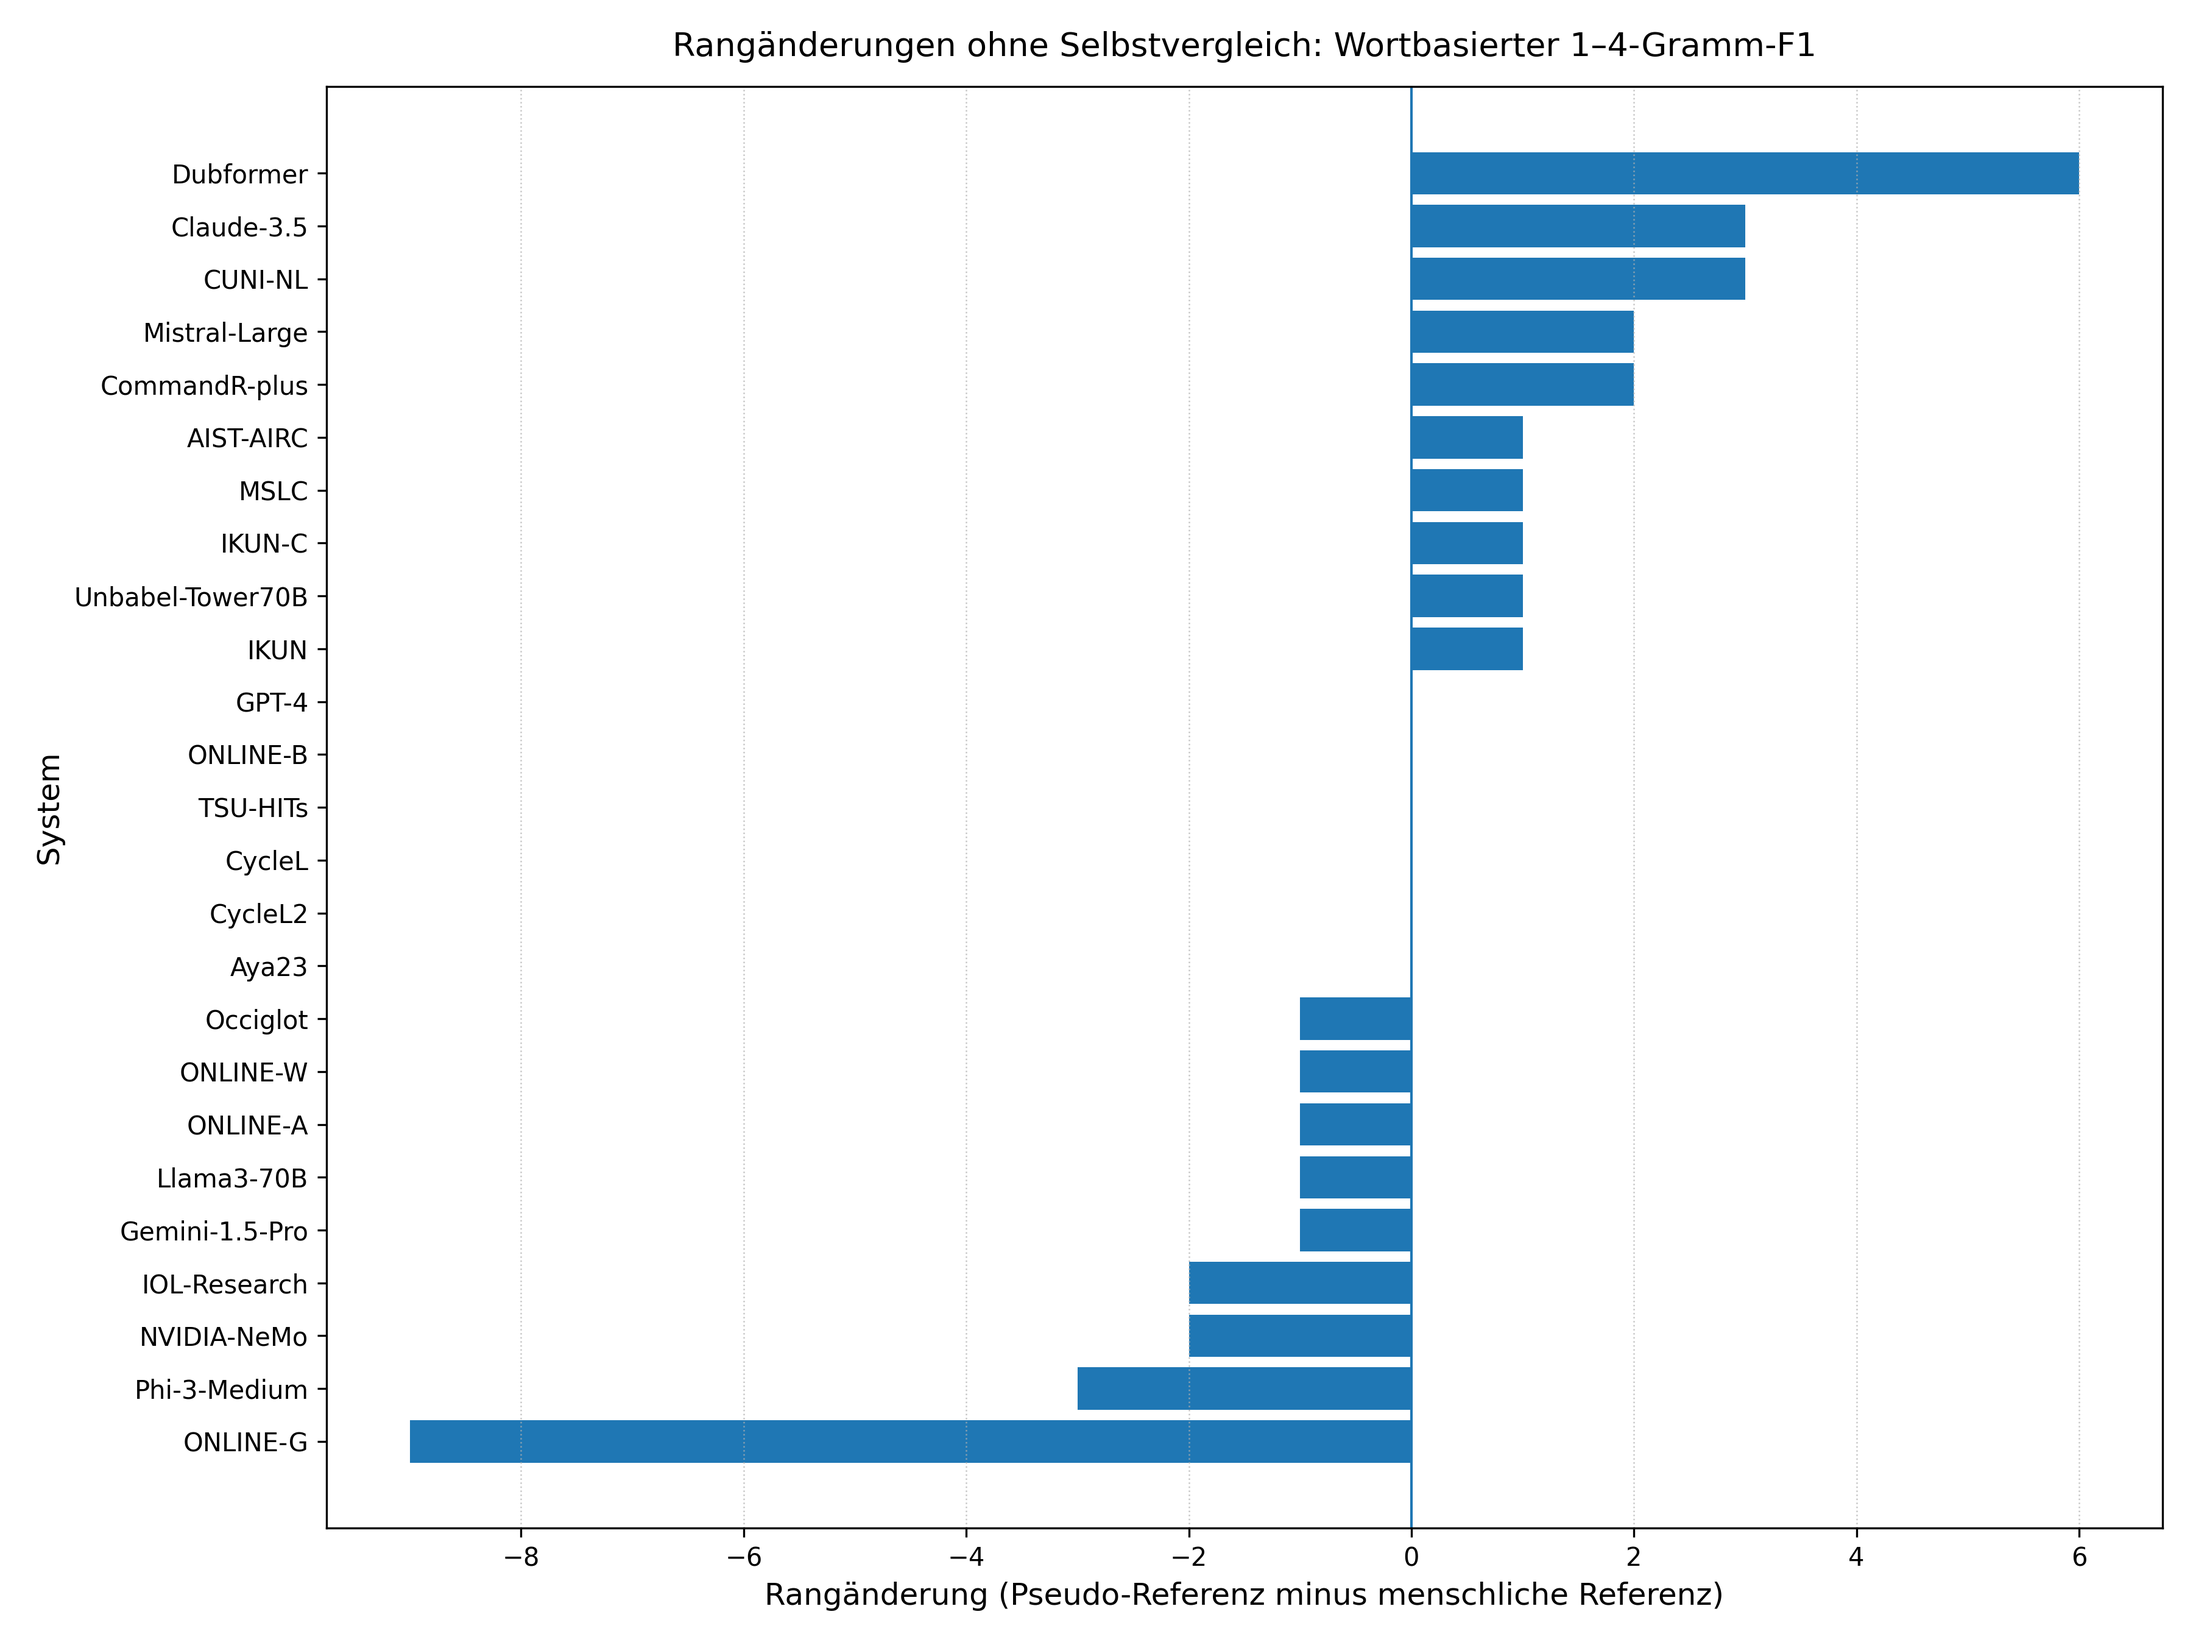
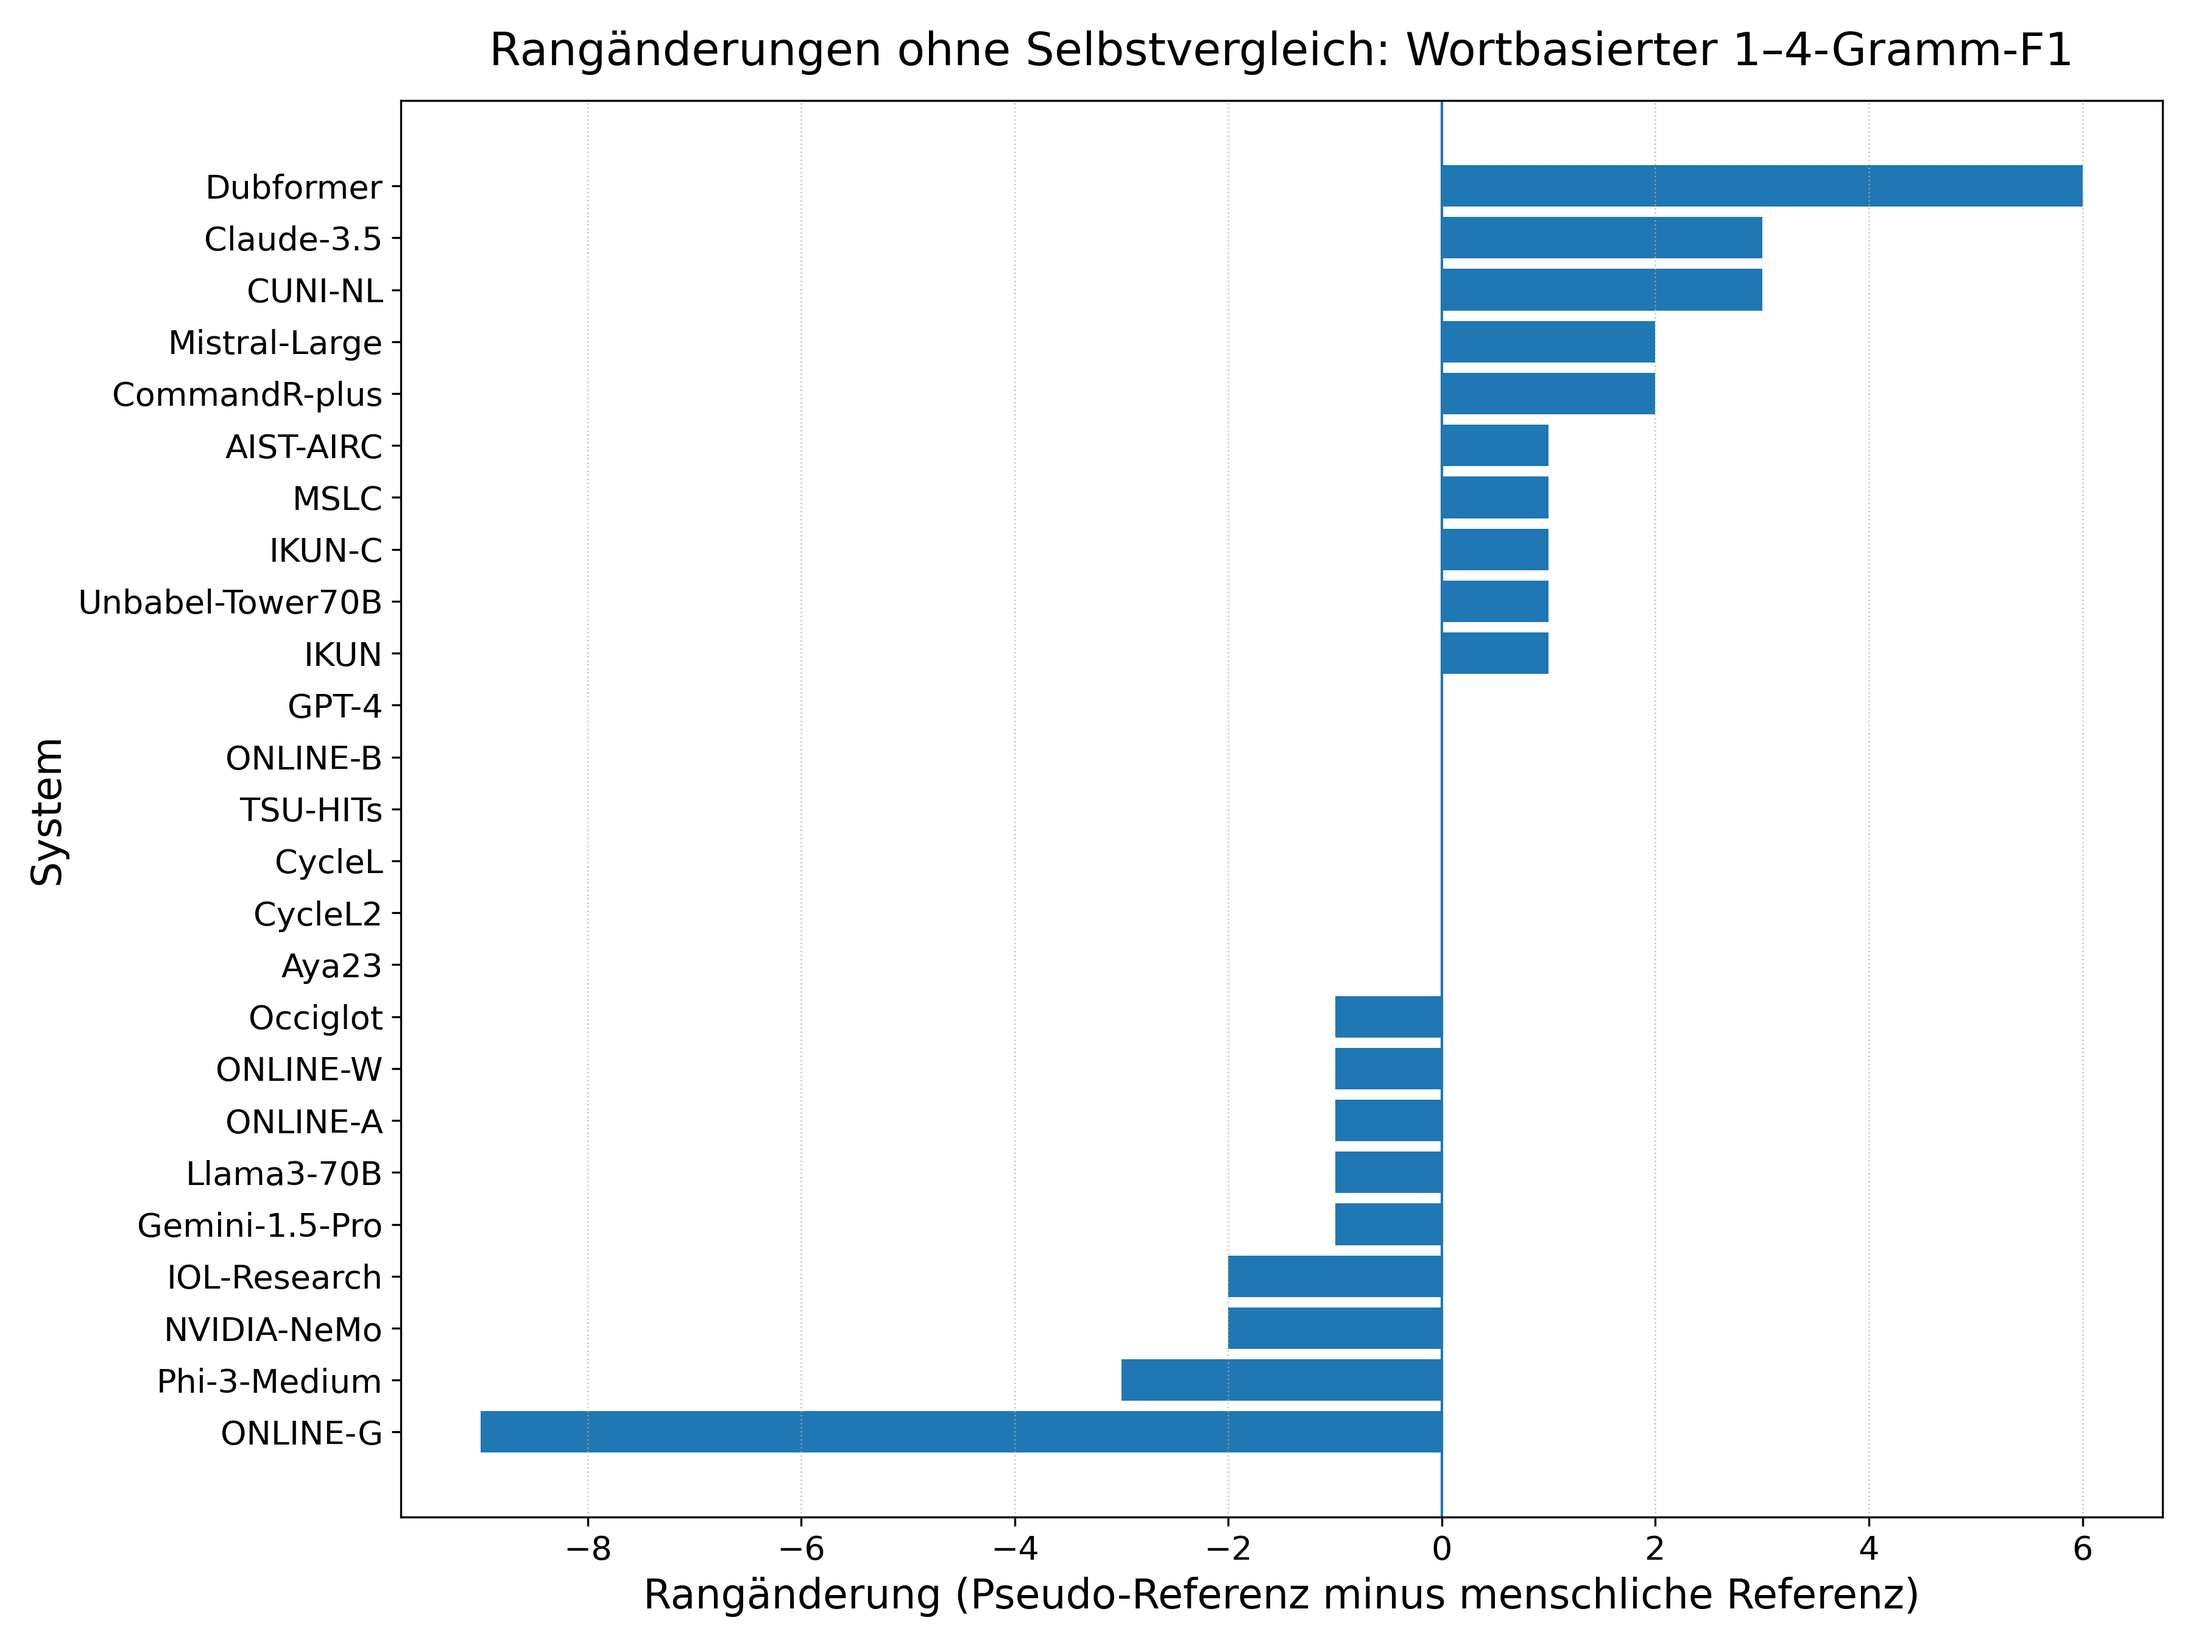
Increase plot label readability

diff --git a/src/build_report_assets.py b/src/build_report_assets.py
@@ -106,7 +106,10 @@ def write_pseudo_reference_comparison(
         ]
     ].sort_values(["metric", "rank_human_reference", "candidate"])
 
-    result.to_csv(REPORT_TABLE_DIR / "report_pseudoref_ranking_comparison_no_self.csv", index=False)
+    result.to_csv(
+        REPORT_TABLE_DIR / "report_pseudoref_ranking_comparison_no_self.csv",
+        index=False,
+    )
     return result
 
 
@@ -135,7 +138,10 @@ def write_human_reference_pseudoref_scores(pseudo_scores: pd.DataFrame) -> pd.Da
         ]
     ].sort_values(["pseudo_reference_metric", "rank_among_non_self_candidates"])
 
-    result.to_csv(REPORT_TABLE_DIR / "report_human_reference_scores_against_pseudoref.csv", index=False)
+    result.to_csv(
+        REPORT_TABLE_DIR / "report_human_reference_scores_against_pseudoref.csv",
+        index=False,
+    )
     return result
 
 
@@ -184,7 +190,9 @@ def write_domain_assets() -> tuple[pd.DataFrame, pd.DataFrame]:
         )
 
     domain_rankings = pd.concat(ranked_parts, ignore_index=True)
-    domain_rankings = domain_rankings.sort_values(["domain", "metric", "domain_rank", "candidate"])
+    domain_rankings = domain_rankings.sort_values(
+        ["domain", "metric", "domain_rank", "candidate"]
+    )
 
     domain_rankings.to_csv(
         REPORT_TABLE_DIR / "report_domain_system_rankings_no_canary.csv",
@@ -262,11 +270,17 @@ def plot_main_top_systems(main_system_ranking: pd.DataFrame) -> None:
         fig, ax = plt.subplots(figsize=(12, 7.5))
         ax.barh(top["candidate"], top[metric])
         ax.invert_yaxis()
-        ax.set_xlabel("Durchschnittlicher Segmentwert", fontsize=12)
-        ax.set_ylabel("System", fontsize=12)
-        ax.set_title(f"Top-12-Systeme nach {METRIC_LABELS[metric]}", fontsize=13, pad=12)
-        ax.tick_params(axis="both", labelsize=11)
+
+        ax.set_xlabel("Durchschnittlicher Segmentwert", fontsize=16)
+        ax.set_ylabel("System", fontsize=16)
+        ax.set_title(
+            f"Top-12-Systeme nach {METRIC_LABELS[metric]}",
+            fontsize=18,
+            pad=14,
+        )
+        ax.tick_params(axis="both", labelsize=14)
         ax.grid(axis="x", linestyle=":", linewidth=0.6, alpha=0.7)
+
         fig.tight_layout(pad=1.2)
         fig.savefig(REPORT_FIGURE_DIR / f"report_top12_{metric}.png", dpi=300)
         plt.close(fig)
@@ -280,11 +294,20 @@ def plot_pseudoref_rank_delta(pseudo_comparison: pd.DataFrame) -> None:
         fig, ax = plt.subplots(figsize=(12, 9))
         ax.barh(subset["candidate"], subset["rank_delta"])
         ax.axvline(0, linewidth=1)
-        ax.set_xlabel("Rangänderung (Pseudo-Referenz minus menschliche Referenz)", fontsize=12)
-        ax.set_ylabel("System", fontsize=12)
-        ax.set_title(f"Rangänderungen ohne Selbstvergleich: {METRIC_LABELS[metric]}", fontsize=13, pad=12)
-        ax.tick_params(axis="both", labelsize=10)
+
+        ax.set_xlabel(
+            "Rangänderung (Pseudo-Referenz minus menschliche Referenz)",
+            fontsize=16,
+        )
+        ax.set_ylabel("System", fontsize=16)
+        ax.set_title(
+            f"Rangänderungen ohne Selbstvergleich: {METRIC_LABELS[metric]}",
+            fontsize=18,
+            pad=14,
+        )
+        ax.tick_params(axis="both", labelsize=13)
         ax.grid(axis="x", linestyle=":", linewidth=0.6, alpha=0.7)
+
         fig.tight_layout(pad=1.2)
         fig.savefig(REPORT_FIGURE_DIR / f"report_pseudoref_rank_delta_{metric}.png", dpi=300)
         plt.close(fig)
